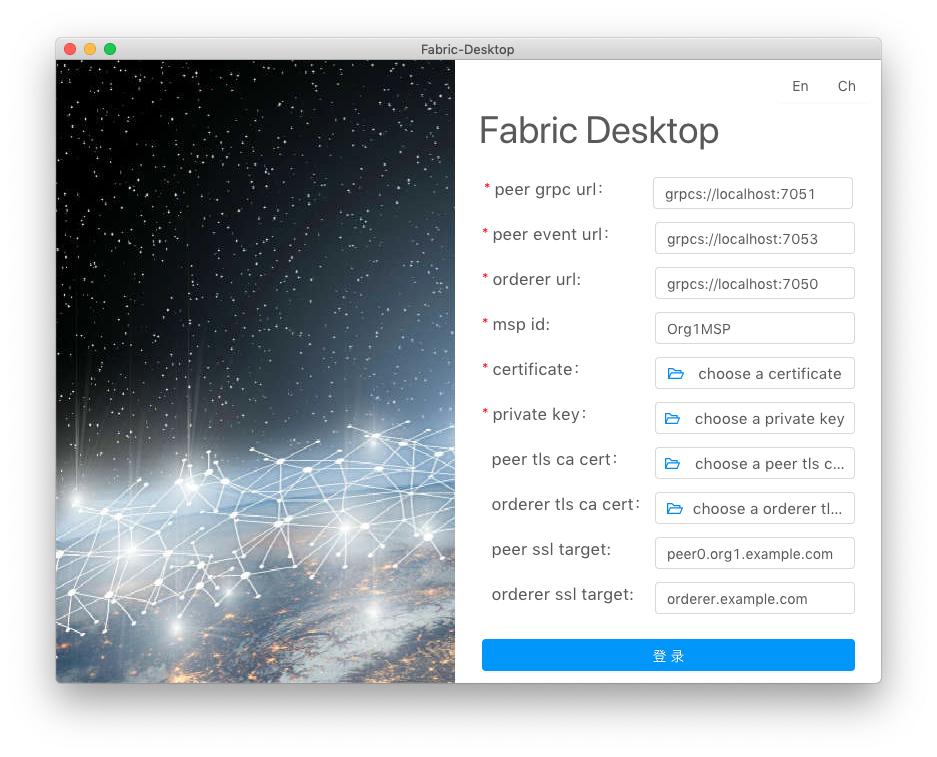
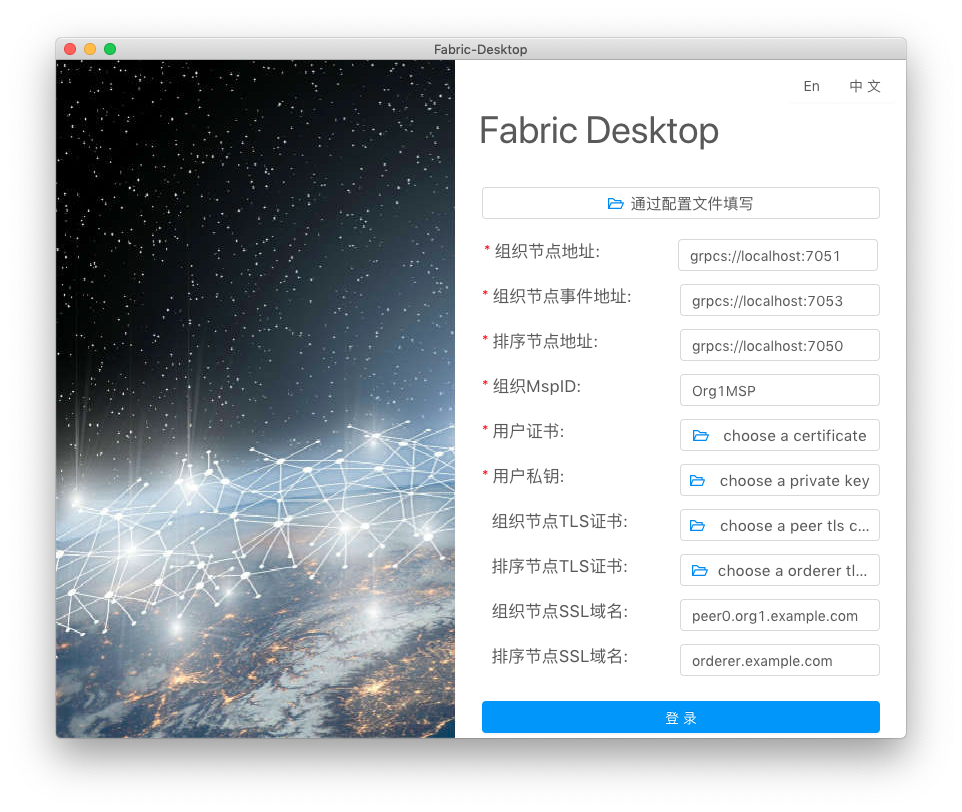
Update doc: sign-in by importing config file.

diff --git a/doc/doc-Ch/tutorial-Ch.md b/doc/doc-Ch/tutorial-Ch.md
@@ -62,6 +62,13 @@
 > 注：ssl target 在生产环境下，证书域名应与实际节点地址一致。而在非生产环境中，
 > 由于证书校验的地址与节点所在地址不一致，使得需人工声明域名。
 
+三、您也可以通过导入配置文件来填写参数  
+配置文件为yaml格式，样例请参见：  
+* 样例1: [不启用TLS加密通讯](../../fabric/v1.1/basic-network/desktopConfig.yaml)
+* 样例2. [启用TLS加密通讯](../../fabric/v1.3/first-network/desktopConfig.yaml)
+
+> 注：样例文件与证书类文件建议放于同一目录，证书类文件路径填写建议使用相对路径
+
 ##### 1.2.2 数据看板
 在数据看板中，我们可以查询与通道相关的区块信息。例如选择`mychanel`，则可看到该通道内区块信息。   
 
